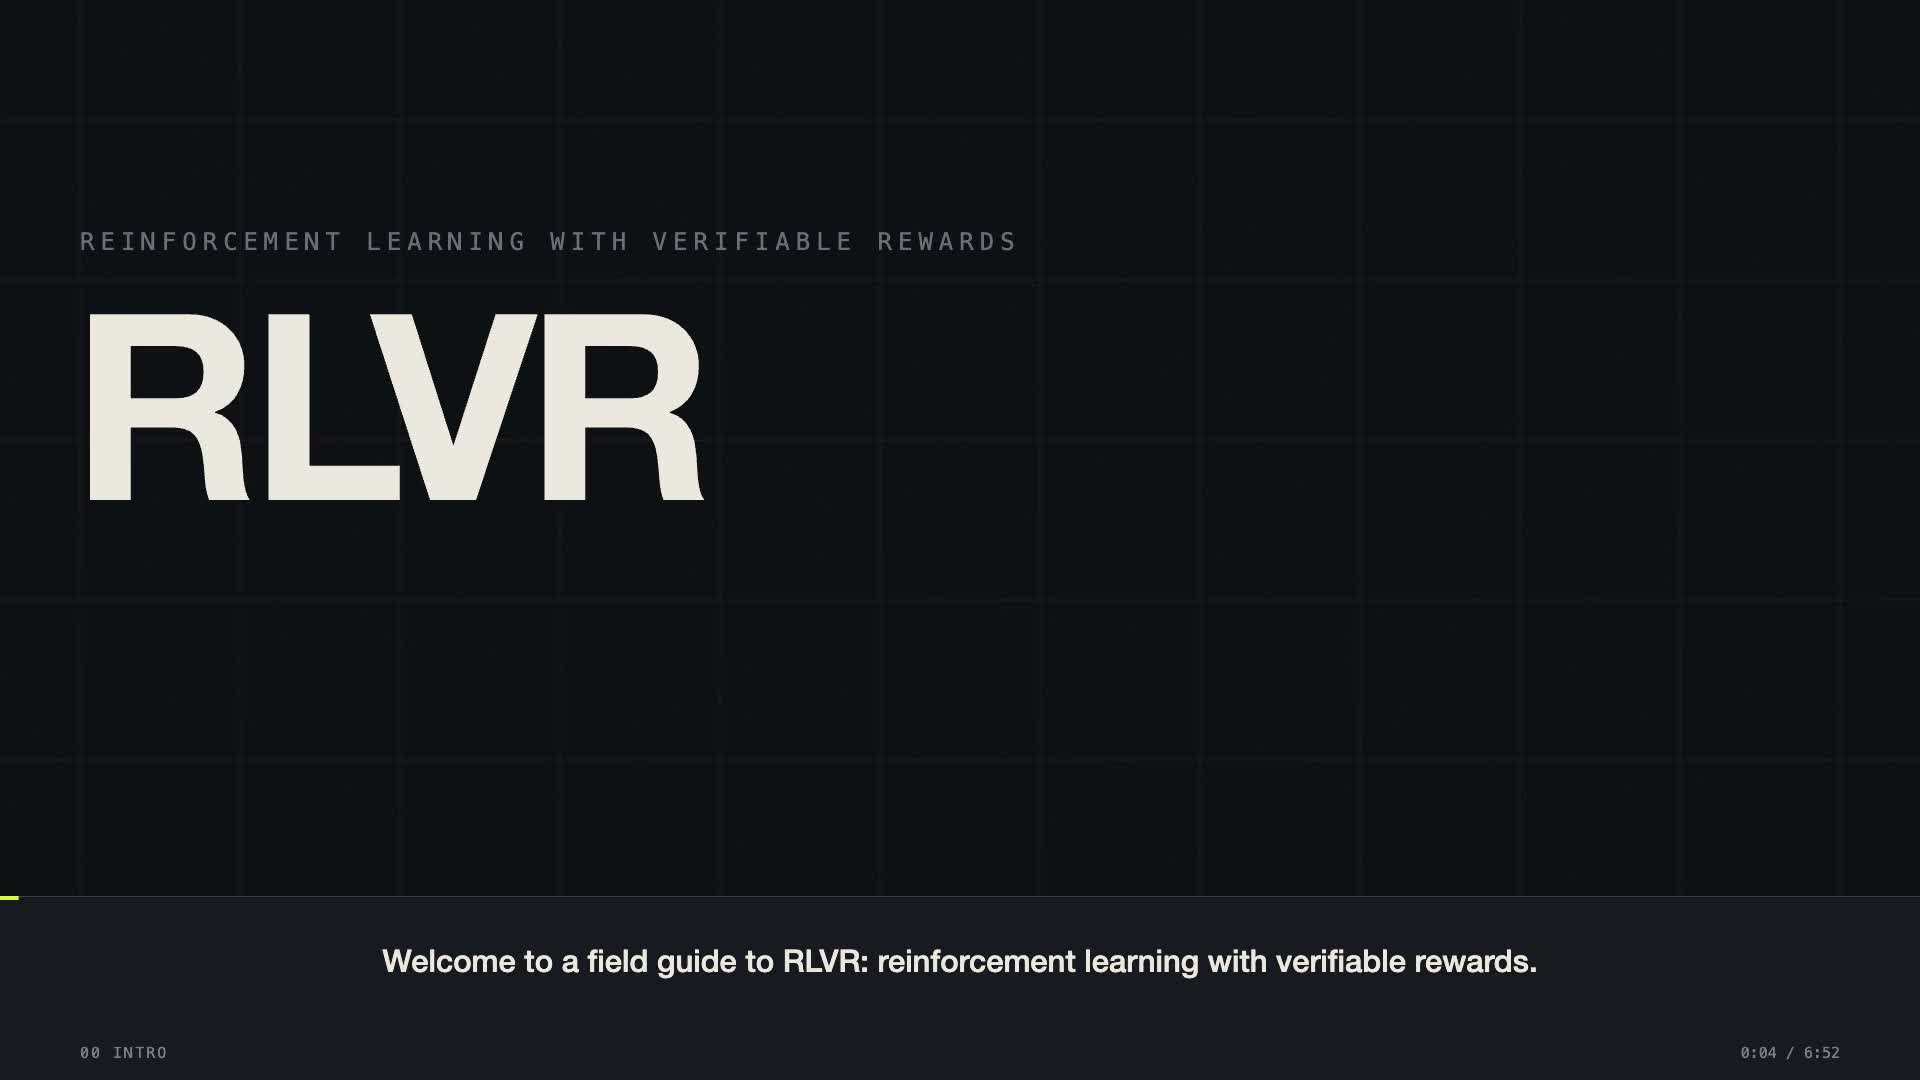
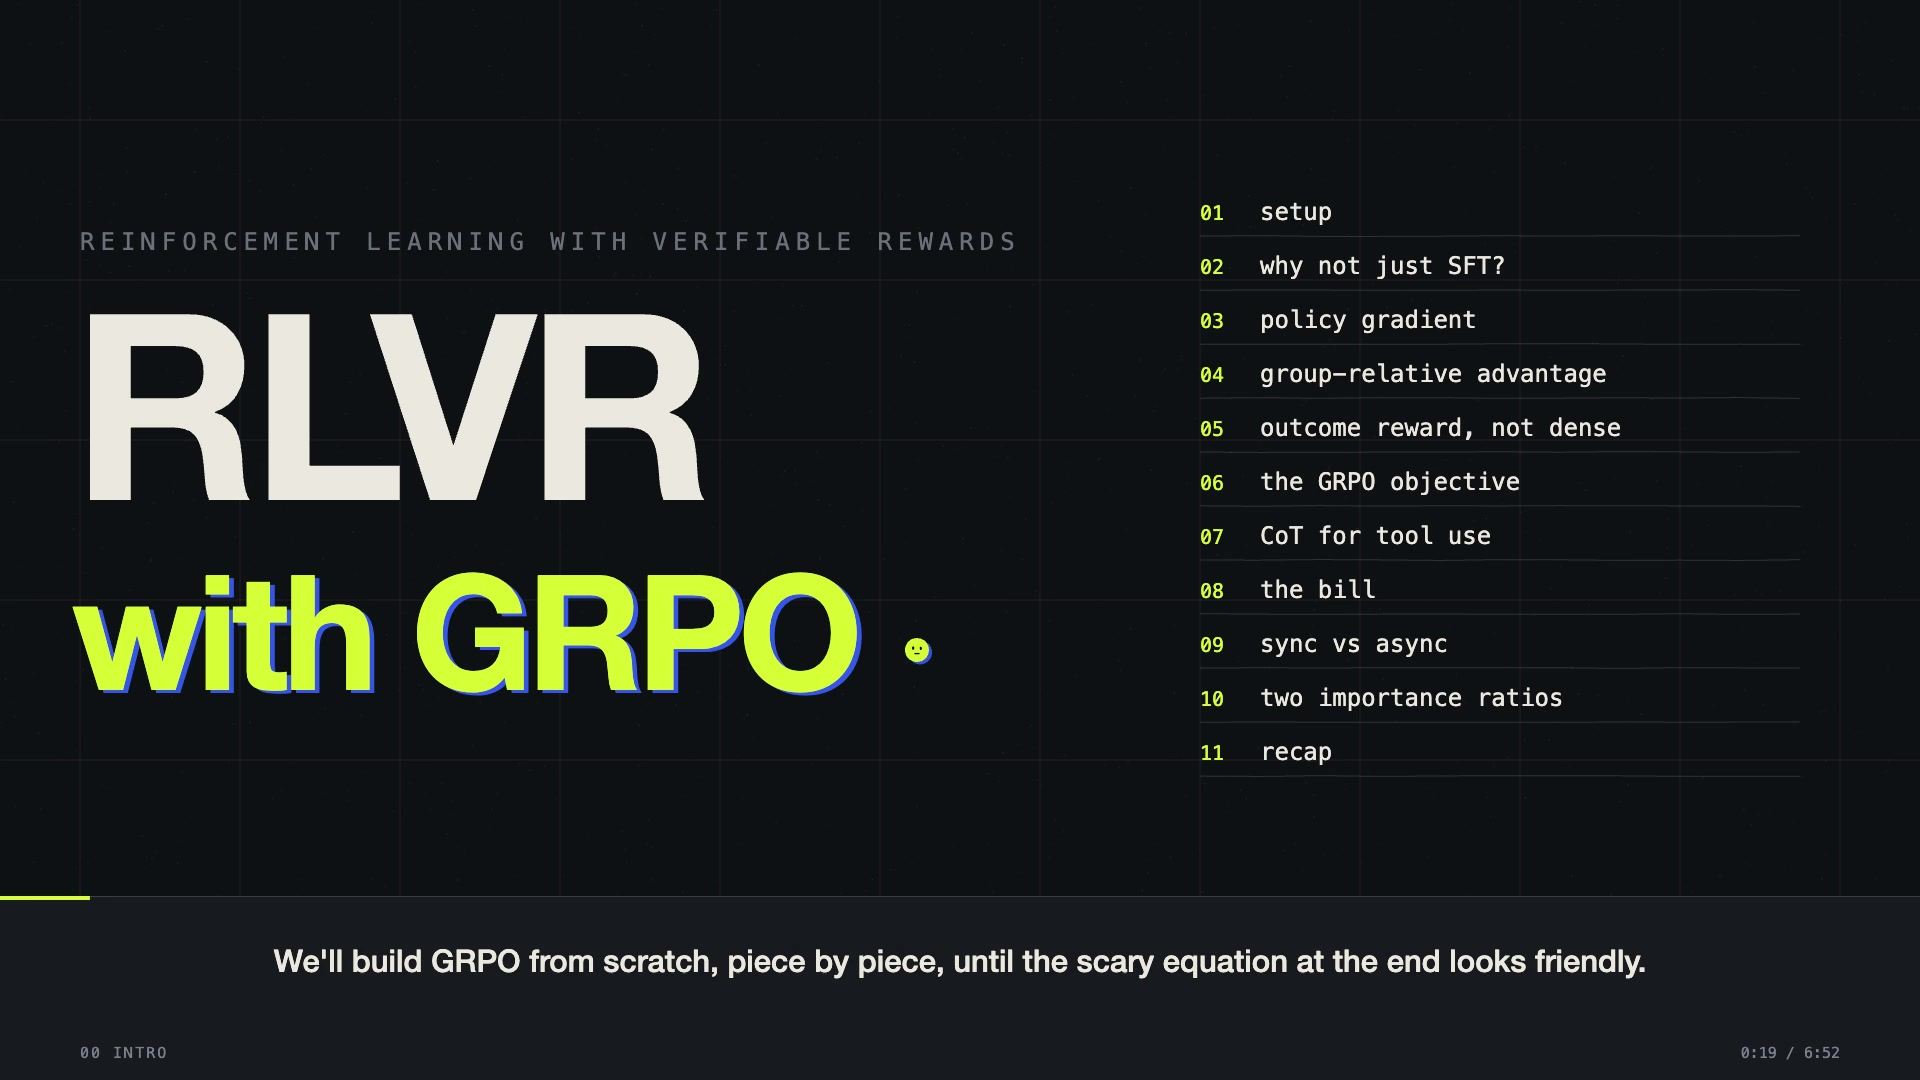
RLVR card: use the same title frame as the YouTube thumbnail

diff --git a/index.html b/index.html
@@ -17,7 +17,7 @@
 <article class="post" data-topics="LLMs"><div class="post-copy"><p class="eyebrow"><time datetime="2026-09-27">27 SEP 2026</time> <span class="separator">/</span> 8:32 VIDEO</p><h3><a href="articles/gepa.html">GEPA and prompt optimization:<br>learning in language, not weights.</a></h3><p class="summary">From APE and OPRO to textual gradients, DSPy and MIPROv2, and GEPA’s reflective, Pareto-guided prompt evolution. Plus the 2026 follow-ups, and how to choose.</p><div class="tags"><span>LLMs</span></div><a class="read-link" href="articles/gepa.html">Read article <span aria-hidden="true">↗</span></a></div><div class="post-media"><div class="video-shell" data-youtube="pokY3niqZsA" data-title="GEPA &amp; Prompt Optimization: Learning in Language, Not Weights"><img src="assets/gepa.jpg" alt="GEPA and friends — prompt optimization" width="1920" height="1080"><button class="play" type="button" aria-label="Play GEPA video"><span aria-hidden="true">▶</span></button></div><div class="media-caption"><a href="https://www.youtube.com/watch?v=pokY3niqZsA">WATCH ON YOUTUBE ↗</a><span>08:32 ↗</span></div></div></article>
 <article class="post" data-topics="LLMs|Reinforcement Learning"><div class="post-copy"><p class="eyebrow"><time datetime="2026-09-27">27 SEP 2026</time> <span class="separator">/</span> 6:40 VIDEO</p><h3><a href="articles/sdpo.html">SDPO with hindsight:<br>when not to follow the teacher.</a></h3><p class="summary">Self-distillation turns error messages and successful rollouts into token-level credit. Then the 2026 variants that trust the model’s own teacher only where it helps: per question, per difficulty, per token.</p><div class="tags"><span>LLMs</span><span>Reinforcement Learning</span></div><a class="read-link" href="articles/sdpo.html">Read article <span aria-hidden="true">↗</span></a></div><div class="post-media"><div class="video-shell" data-youtube="gsWonbHduHk" data-title="SDPO: Self-Distillation Policy Optimization, and When Not to Follow the Teacher"><img src="assets/sdpo.jpg" alt="SDPO with hindsight — when not to follow the teacher" width="1920" height="1080"><button class="play" type="button" aria-label="Play SDPO video"><span aria-hidden="true">▶</span></button></div><div class="media-caption"><a href="https://www.youtube.com/watch?v=gsWonbHduHk">WATCH ON YOUTUBE ↗</a><span>06:40 ↗</span></div></div></article>
 <article class="post" data-topics="LLMs|Reinforcement Learning"><div class="post-copy"><p class="eyebrow"><time datetime="2026-09-24">24 SEP 2026</time> <span class="separator">/</span> 8:20 VIDEO</p><h3><a href="articles/rlhf-ppo.html">RLHF and PPO:<br>how the first assistants were built.</a></h3><p class="summary">From demonstrations to reward models trained on human comparisons, the KL-regularized objective and PPO. Plus reward hacking, where LLM-as-a-judge fits, and DPO.</p><div class="tags"><span>LLMs</span><span>Reinforcement Learning</span></div><a class="read-link" href="articles/rlhf-ppo.html">Read article <span aria-hidden="true">↗</span></a></div><div class="post-media"><div class="video-shell" data-youtube="xxCG4HDMu_8" data-title="RLHF and PPO: how the first assistants were built"><img src="assets/rlhf-ppo.jpg" alt="RLHF and PPO — how the first assistants were built" width="1920" height="1080"><button class="play" type="button" aria-label="Play RLHF and PPO video"><span aria-hidden="true">▶</span></button></div><div class="media-caption"><a href="https://www.youtube.com/watch?v=xxCG4HDMu_8">WATCH ON YOUTUBE ↗</a><span>08:20 ↗</span></div></div></article>
-<article class="post" data-topics="LLMs|Reinforcement Learning"><div class="post-copy"><p class="eyebrow"><time datetime="2026-09-24">24 SEP 2026</time> <span class="separator">/</span> 6:53 VIDEO</p><h3><a href="articles/rlvr-grpo.html">RLVR with GRPO:<br>sample, verify, reinforce.</a></h3><p class="summary">From verifiable rewards to group-relative advantages. A visual walk through the learning objective, tool-use masking, and the two importance ratios behind asynchronous training.</p><div class="tags"><span>LLMs</span><span>Reinforcement Learning</span></div><a class="read-link" href="articles/rlvr-grpo.html">Read article <span aria-hidden="true">↗</span></a></div><div class="post-media"><div class="video-shell" data-youtube="tHLlJn1RkWU" data-title="Fine-tuning reasoning LLM agents with RLVR and GRPO"><img src="assets/rlvr-grpo.jpg" alt="RLVR with GRPO — a visual field guide" width="1920" height="1080"><button class="play" type="button" aria-label="Play RLVR with GRPO video"><span aria-hidden="true">▶</span></button></div><div class="media-caption"><a href="https://www.youtube.com/watch?v=tHLlJn1RkWU">WATCH ON YOUTUBE ↗</a><span>06:53 ↗</span></div></div></article>
+<article class="post" data-topics="LLMs|Reinforcement Learning"><div class="post-copy"><p class="eyebrow"><time datetime="2026-09-24">24 SEP 2026</time> <span class="separator">/</span> 6:53 VIDEO</p><h3><a href="articles/rlvr-grpo.html">RLVR with GRPO:<br>sample, verify, reinforce.</a></h3><p class="summary">From verifiable rewards to group-relative advantages. A visual walk through the learning objective, tool-use masking, and the two importance ratios behind asynchronous training.</p><div class="tags"><span>LLMs</span><span>Reinforcement Learning</span></div><a class="read-link" href="articles/rlvr-grpo.html">Read article <span aria-hidden="true">↗</span></a></div><div class="post-media"><div class="video-shell" data-youtube="tHLlJn1RkWU" data-title="Fine-tuning reasoning LLM agents with RLVR and GRPO"><img src="assets/rlvr-grpo.jpg?v=2" alt="RLVR with GRPO — a visual field guide" width="1920" height="1080"><button class="play" type="button" aria-label="Play RLVR with GRPO video"><span aria-hidden="true">▶</span></button></div><div class="media-caption"><a href="https://www.youtube.com/watch?v=tHLlJn1RkWU">WATCH ON YOUTUBE ↗</a><span>06:53 ↗</span></div></div></article>
 <div class="empty" id="empty" hidden><h3>No entries here yet.</h3><p>Try another topic or a different search.</p><button type="button" id="reset">Clear filters</button></div>
 </section><aside class="endnote"><span class="dot"></span><p>A notebook in progress. More ideas as they take shape.</p></aside>
 </main><footer class="wrap"><span>Flavian’s notes on AI</span><span>Learning, in the open.</span><a href="https://github.com/flavianv/flavianv.github.io">Source ↗</a></footer><!-- Cloudflare Web Analytics --><script type='module' src='https://static.cloudflareinsights.com/beacon.min.js' data-cf-beacon='{"token": "13b774f6cd3d47f8af07d53f46339f77"}'></script><!-- End Cloudflare Web Analytics --></body></html>
